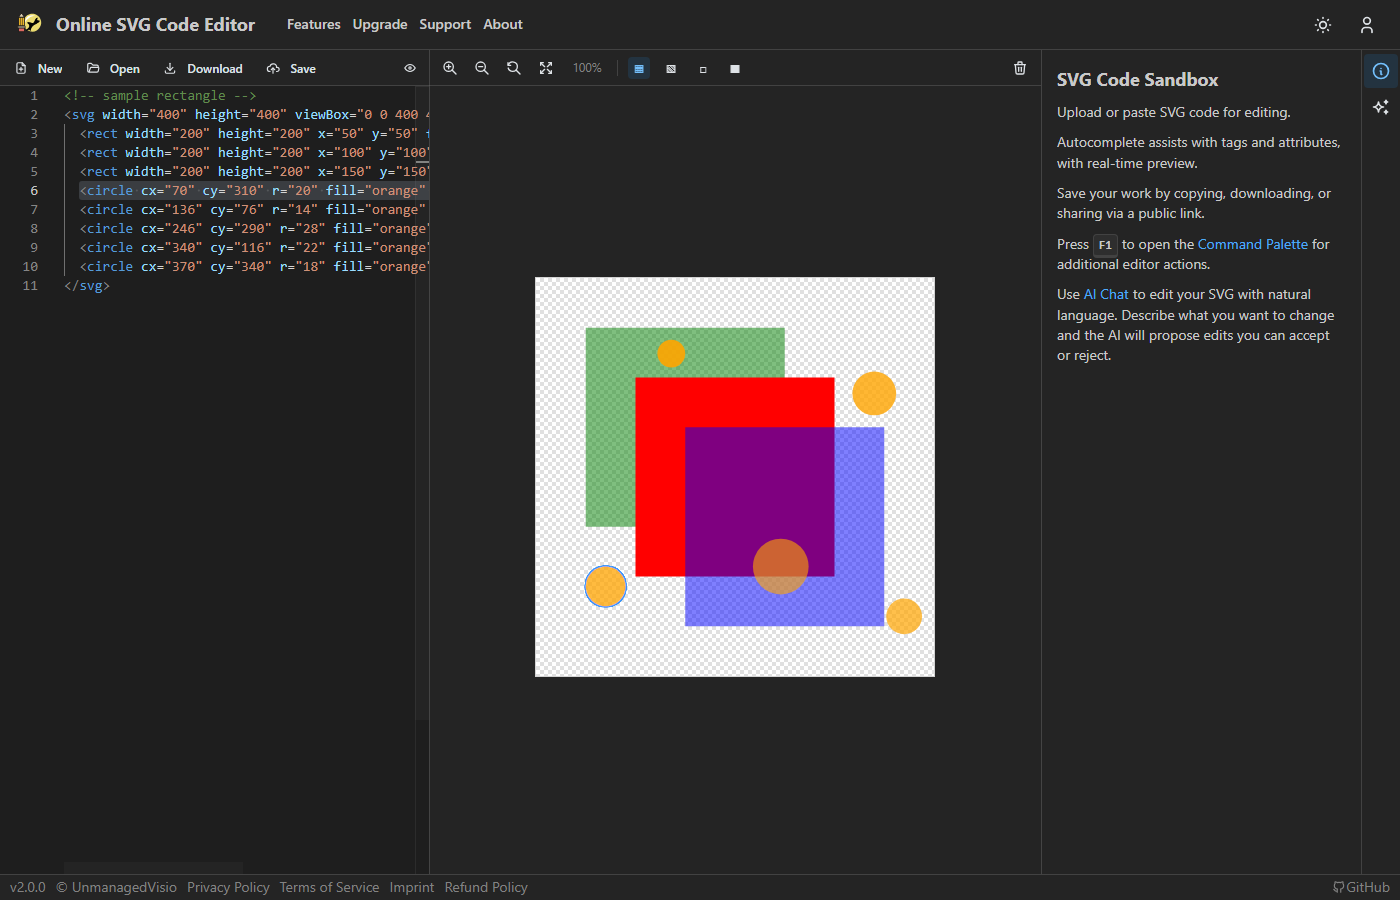
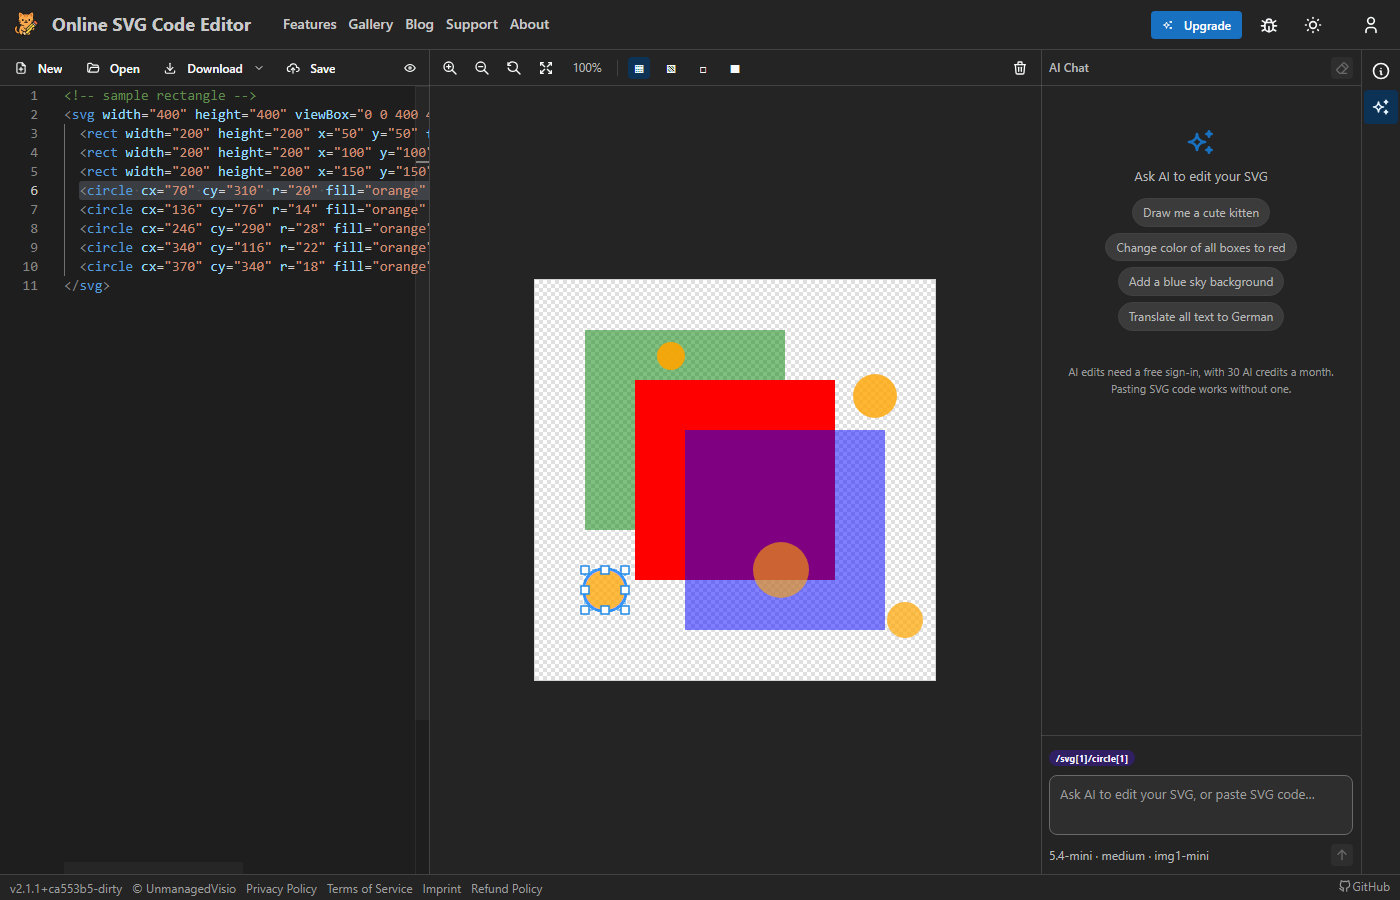
docs(blog): move and resize shapes in the preview
An update on /blog for dragging, resizing, nudging and clicking into
groups, with a new screenshot of a shape just moved and enlarged, which
the live preview page now shows too. The click-to-select screenshot is
retaken, since a selection now has a box and handles.

diff --git a/src/lib/updates.ts b/src/lib/updates.ts
@@ -65,6 +65,28 @@ export interface Update {
 /** Newest first — the order the page renders them in. */
 export const UPDATES: Update[] = [
   {
+    id: 'move-and-resize',
+    date: '2026-10-07',
+    title: 'Move and resize shapes in the preview',
+    summary:
+      'The preview could show you a shape\'s code and delete it, but moving or resizing anything meant editing numbers by hand. Now you can drag a shape to move it and drag its handles to resize it, and the change is written into the code the way you would write it yourself: a circle\'s cx and r, a rectangle\'s x and width, a traced path\'s translate. The rest of the file stays exactly as it was, and one Ctrl+Z undoes a whole drag.',
+    images: [
+      {
+        src: '/screenshots/32-move-resize.png',
+        thumb: '/screenshots/thumbs/32-move-resize.png',
+        alt: 'The sun dragged across the sky and enlarged from a corner handle: it is still selected in the preview, and its line in the code now reads cx="334" cy="60" r="34".',
+      },
+    ],
+    changes: [
+      { kind: 'new', text: 'Drag a selected shape to move it, or one of the eight handles around it to resize it. Hold Shift to keep its proportions, and press Esc during a drag to put it back.' },
+      { kind: 'new', text: 'The arrow keys move the selected shape by one unit, and by ten with Shift.' },
+      { kind: 'new', text: 'Clicking walks into groups: the first click selects the whole group a shape belongs to, and each further click goes one level deeper, down to the shape itself.' },
+      { kind: 'improved', text: 'Shapes without a position of their own, such as paths, groups and text, are moved and resized with a transform, and a second resize updates that transform instead of adding another.' },
+      { kind: 'improved', text: 'Del removes exactly the selected element from the code, even when it shares a line with other elements.' },
+      { kind: 'fixed', text: 'In a file with markup commented out, clicking a shape could select a different element in the code.' },
+    ],
+  },
+  {
     id: 'the-assistant-looks',
     date: '2026-10-07',
     title: 'The assistant can look at your drawing',

diff --git a/e2e/screenshots/screenshots.spec.ts b/e2e/screenshots/screenshots.spec.ts
@@ -220,6 +220,42 @@ test.describe('Feature screenshots', () => {
     await page.screenshot({ path: `${SCREENSHOT_DIR}/07-click-to-select.png` });
   });
 
+  test('32 — move and resize in the preview', async ({ page }) => {
+    await page.goto('/');
+    await waitForEditor(page);
+    await setSvgContent(page, `<svg xmlns="http://www.w3.org/2000/svg" viewBox="0 0 400 300" width="400" height="300">
+  <rect width="400" height="300" fill="#dff1fb"/>
+  <rect y="230" width="400" height="70" fill="#9ccc65"/>
+  <g id="house">
+    <rect x="90" y="140" width="150" height="110" fill="#f5deb3" stroke="#8d6e63" stroke-width="3"/>
+    <path d="M75 145 L165 75 L255 145 Z" fill="#c0504d"/>
+    <rect x="150" y="190" width="32" height="60" fill="#8d6e63"/>
+    <rect x="108" y="165" width="30" height="28" fill="#90caf9" stroke="#8d6e63" stroke-width="2"/>
+  </g>
+  <circle id="sun" cx="70" cy="60" r="26" fill="#ffca28"/>
+</svg>`);
+    await page.getByRole('button', { name: 'Zoom in' }).click();
+    await page.waitForTimeout(400);
+    // Drag the sun across the sky, then make it bigger from a corner.
+    const sun = await page.locator('[data-testid="svg-preview"] #sun').boundingBox();
+    const at = { x: sun!.x + sun!.width / 2, y: sun!.y + sun!.height / 2 };
+    await page.mouse.click(at.x, at.y);
+    await page.mouse.move(at.x, at.y);
+    await page.mouse.down();
+    await page.mouse.move(at.x + 320, at.y - 10, { steps: 8 });
+    await page.mouse.up();
+    await page.waitForTimeout(400);
+    const se = await page.locator('[data-testid="selection-overlay"] [data-handle="se"]').boundingBox();
+    await page.mouse.move(se!.x + se!.width / 2, se!.y + se!.height / 2);
+    await page.mouse.down();
+    await page.mouse.move(se!.x + 25, se!.y + 25, { steps: 6 });
+    await page.mouse.up();
+    // Off the drawing, so no hover glow competes with the selection box.
+    await page.mouse.move(5, 300);
+    await page.waitForTimeout(600);
+    await page.screenshot({ path: `${SCREENSHOT_DIR}/32-move-resize.png` });
+  });
+
   // --- 3. AI Chat ---
 
   test('08 — chat conversation', async ({ page }) => {

diff --git a/src/lib/feature-pages.ts b/src/lib/feature-pages.ts
@@ -631,6 +631,11 @@ export const FEATURE_PAGES: FeaturePage[] = [
           'Drag a shape to move it, or drag one of the handles around it to resize it. Shift keeps its proportions, and Esc during a drag puts it back where it was. The arrow keys move the selection by one unit, ten with Shift.',
           'Each change is written into the code the way you would write it yourself: a rectangle\'s x and width, a circle\'s cx and r, a traced path\'s translate. Nothing else in the file is touched, and one Ctrl+Z undoes a whole drag. Shapes that have no position of their own, such as paths, groups and text, are moved and resized with a transform.',
         ],
+        image: {
+          src: '/screenshots/32-move-resize.png',
+          alt: 'The sun dragged across the sky and enlarged from a corner handle, with its new cx, cy and r in the code.',
+          width: 1400, height: 900,
+        },
       },
       {
         heading: 'Zoom and backgrounds',

diff --git a/public/screenshots/README.md b/public/screenshots/README.md
@@ -12,6 +12,7 @@
 - `05-zoom-controls.png` — Zoom controls, zoomed-in SVG showing zoom toolbar
 - `06-background-modes.png` — Background modes, 2×2 grid: same SVG on checkerboard/white/black/dark
 - `07-click-to-select.png` — Click-to-select, element highlighted with dashed outline, code selected in editor
+- `32-move-resize.png` — A circle moved and resized in the preview, with its new attributes selected in the code
 
 ## 3. AI Chat
 
